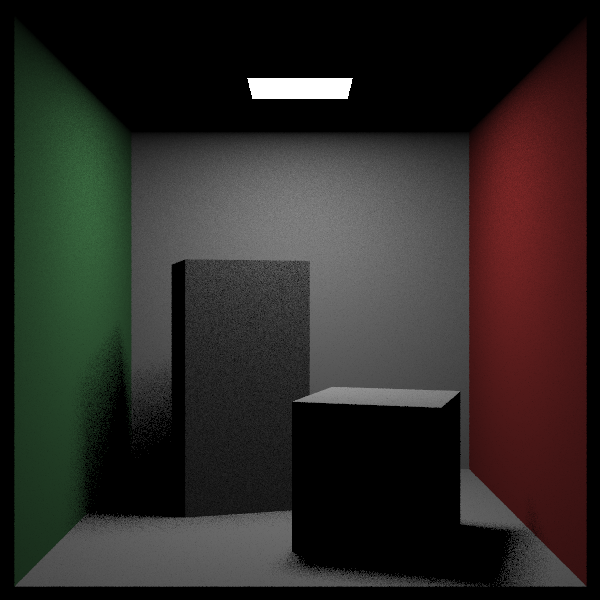
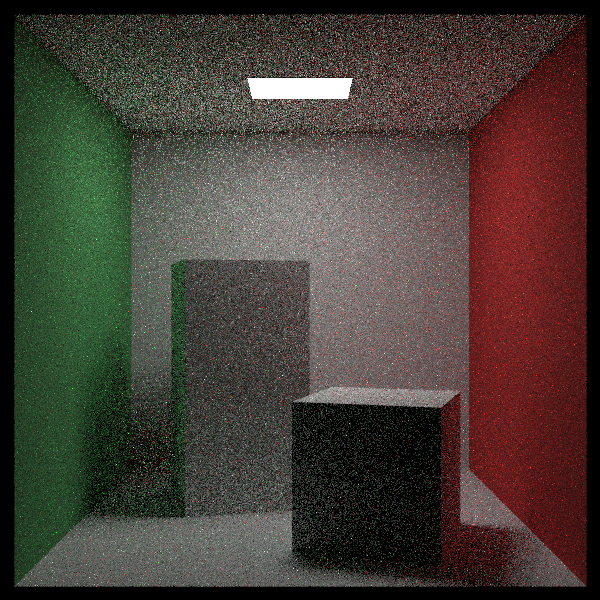
pdfs

diff --git a/src/camera.rs b/src/camera.rs
@@ -11,7 +11,8 @@ use crate::{
     hittables::Hittable,
     image_writer::ImageWriter,
     misc::rand_f64,
-    primitives::{Color, Point3, Ray, Vec3, color, interval, point3, ray, vec3},
+    pdfs::{CosinePdf, HittablePdf, MixturePdf, Pdf},
+    primitives::{Color, Onb, Point3, Ray, Vec3, color, interval, point3, ray, vec3},
 };
 
 fn opt_assert(cond: bool) -> Option<()> {
@@ -140,11 +141,11 @@ impl Camera {
     }
 
     // Renders a scanline into Vec of colors
-    pub fn scanline(&self, world: &dyn Hittable, y: usize) -> Vec<Color> {
+    pub fn scanline(&self, world: &dyn Hittable, lights: &dyn Hittable, y: usize) -> Vec<Color> {
         (0..self.image_width)
             .map(|x| {
                 (0..self.samples_per_pixel)
-                    .map(|_| self.ray_color(&self.get_ray(x, y), self.max_depth, world))
+                    .map(|_| self.ray_color(&self.get_ray(x, y), self.max_depth, world, lights))
                     .sum::<Color>()
                     / f64::from(self.samples_per_pixel)
             })
@@ -152,7 +153,7 @@ impl Camera {
     }
 
     // Renders a hittable into a 2d array of colors
-    pub fn render(&self, world: &dyn Hittable) -> Vec<Vec<Color>> {
+    pub fn render(&self, world: &dyn Hittable, lights: &dyn Hittable) -> Vec<Vec<Color>> {
         // AtomicUsize is faster than Mutex
         let count = Arc::new(AtomicUsize::new(0));
 
@@ -167,7 +168,7 @@ impl Camera {
                     self.image_height,
                     prev as f64 / self.image_height as f64 * 100.0
                 );
-                self.scanline(world, y)
+                self.scanline(world, lights, y)
             })
             .collect_into_vec(&mut result);
 
@@ -178,10 +179,11 @@ impl Camera {
     pub fn render_and_save<T, Writer: ImageWriter<T>>(
         &self,
         world: &dyn Hittable,
+        lights: &dyn Hittable,
         data: T,
     ) -> Result<(), Box<dyn Error>> {
         let mut writer = Writer::new(data, self.image_width, self.image_height)?;
-        let pixels = self.render(world);
+        let pixels = self.render(world, lights);
         println!("Done rendering");
 
         writer.write(pixels)?;
@@ -191,7 +193,7 @@ impl Camera {
 
     // Gets the final color of a ray through a given world. Recursively calls
     // itself for scattered rays
-    fn ray_color(&self, r: &Ray, depth: u32, world: &dyn Hittable) -> Color {
+    fn ray_color(&self, r: &Ray, depth: u32, world: &dyn Hittable, lights: &dyn Hittable) -> Color {
         // if we hit the bounce limit, no more light is gathered
         if depth == 0 {
             return color(0.0, 0.0, 0.0);
@@ -201,29 +203,18 @@ impl Camera {
             let emitted = rec.mat.emitted(r, &rec, rec.u, rec.v, rec.p);
 
             if let Some((attenuation, scattered, pdf_value)) = rec.mat.scatter(r, &rec) {
-                let on_light = point3(rand::random_range(213.0..=343.0), 554.0, rand::random_range(227.0..=332.0));
-                let to_light = on_light - rec.p;
-                let distance_squared = to_light.length_squared();
-                let to_light = to_light.unit_vector();
+                let p0 = HittablePdf::new(lights, rec.p);
+                let p1 = CosinePdf::new(Onb::new(rec.normal));
+                let mixed_pdf = MixturePdf::new(&p0, &p1);
 
-                if to_light.dot(rec.normal) < 0.0 {
-                    return emitted;
-                }
-
-                let light_area = (343.0-213.0)*(332.0-227.0);
-                let light_cosine = to_light.y.abs();
-                if light_cosine < 0.000_001 {
-                    return emitted;
-                }
-
-                let pdf_value = distance_squared / (light_cosine * light_area);
-                let scattered = ray(rec.p, to_light, r.time);
+                let scattered = ray(rec.p, mixed_pdf.generate(), r.time);
+                let pdf_value = mixed_pdf.value(scattered.dir);
 
                 let scattering_pdf = rec.mat.scattering_pdf(r, &rec, &scattered);
 
-                let color_from_scatter =
-                    (attenuation * scattering_pdf * self.ray_color(&scattered, depth - 1, world))
-                        / pdf_value;
+                let color_sample = self.ray_color(&scattered, depth - 1, world, lights);
+
+                let color_from_scatter = (attenuation * scattering_pdf * color_sample) / pdf_value;
                 emitted + color_from_scatter
             } else {
                 emitted

diff --git a/src/example_worlds.rs b/src/example_worlds.rs
@@ -3,8 +3,7 @@ use std::sync::Arc;
 use crate::{
     camera::{Camera, CameraOptions},
     hittables::{
-        BvhNode, HittableList, constant_medium_from_color, cube, moving, quad, rotate_y, sphere,
-        translate, triangle,
+        BvhNode, HittableList, Quad, constant_medium_from_color, cube, moving, quad, rotate_y, sphere, translate, triangle
     },
     materials::{
         Material, dielectric, diffuse_light_from_color, lambertian, lambertian_from_color, metal,
@@ -274,7 +273,7 @@ pub fn simple_light() -> (HittableList, Camera) {
 }
 
 #[must_use]
-pub fn cornell_box() -> (HittableList, Camera) {
+pub fn cornell_box() -> (HittableList, Quad, Camera) {
     let mut world = HittableList::default();
 
     let red = lambertian_from_color(color(0.65, 0.05, 0.05));
@@ -318,8 +317,15 @@ pub fn cornell_box() -> (HittableList, Camera) {
         point3(213.0, 554.0, 226.0),
         vec3(130.0, 0.0, 0.0),
         vec3(0.0, 0.0, 105.0),
-        light,
+        light.clone(),
     ));
+
+    let lights = Quad::new(
+        point3(213.0, 554.0, 226.0),
+        vec3(130.0, 0.0, 0.0),
+        vec3(0.0, 0.0, 105.0),
+        light,
+    );
 
     let box1 = cube(
         point3(0.0, 0.0, 0.0),
@@ -351,7 +357,7 @@ pub fn cornell_box() -> (HittableList, Camera) {
     })
     .unwrap();
 
-    (world, cam)
+    (world, lights, cam)
 }
 
 #[must_use]

diff --git a/src/hittables/quad.rs b/src/hittables/quad.rs
@@ -1,11 +1,13 @@
 use std::{
+    f64::INFINITY,
     fmt::{self, Display},
     sync::Arc,
 };
 
 use crate::{
     materials::Material,
-    primitives::{Aabb, Interval, Point3, Ray, Vec3, point3, vec3},
+    misc::rand_f64,
+    primitives::{Aabb, Interval, Point3, Ray, Vec3, interval, point3, ray, vec3},
 };
 
 use super::{HitRecord, Hittable, HittableList};
@@ -19,6 +21,7 @@ pub struct Quad {
     bbox: Aabb,
     normal: Vec3,
     d: f64,
+    area: f64,
 }
 
 impl Quad {
@@ -40,6 +43,7 @@ impl Quad {
             bbox: Aabb::from_boxes(&bbox_diag_1, &bbox_diag_2),
             normal,
             d,
+            area: n.length(),
         }
     }
 
@@ -93,6 +97,22 @@ impl Hittable for Quad {
 
     fn bounding_box(&self) -> &Aabb {
         &self.bbox
+    }
+
+    fn pdf_value(&self, origin: Point3, dir: Vec3) -> f64 {
+        if let Some(rec) = self.hit(&ray(origin, dir, 0.0), &interval(0.001, f64::INFINITY)) {
+            let distance_squared = rec.t * rec.t * dir.length_squared();
+            let cosine = (dir.dot(rec.normal) / dir.length()).abs();
+
+            distance_squared / (cosine * self.area)
+        } else {
+            0.0
+        }
+    }
+
+    fn random(&self, origin: Point3) -> Vec3 {
+        let p = self.q + (rand_f64() * self.u) + (rand_f64() * self.v);
+        p - origin
     }
 }
 

diff --git a/src/hittables/hittable.rs b/src/hittables/hittable.rs
@@ -2,7 +2,7 @@ use std::{fmt, sync::Arc};
 
 use crate::{
     materials::Material,
-    primitives::{Aabb, Interval, Point3, Ray, Vec3},
+    primitives::{Aabb, Interval, Point3, Ray, Vec3, vec3},
     tern,
 };
 
@@ -47,4 +47,14 @@ pub trait Hittable: Sync + Send + fmt::Display {
     fn hit(&self, r: &Ray, ray_t: &Interval) -> Option<HitRecord>;
 
     fn bounding_box(&self) -> &Aabb;
+
+    fn pdf_value(&self, origin: Point3, dir: Vec3) -> f64 {
+        _ = (origin, dir);
+        0.0
+    }
+
+    fn random(&self, origin: Point3) -> Vec3 {
+        _ = origin;
+        vec3(1.0, 0.0, 0.0)
+    }
 }

diff --git a/src/main.rs b/src/main.rs
@@ -6,9 +6,9 @@ use raytrace::image_writer::PNGImageWriter;
 
 use raytrace::example_worlds::*;
 
-fn run<H: Hittable>((world, cam): (H, Camera), name: &str) {
+fn run<H: Hittable, L: Hittable>((world, lights, cam): (H, L, Camera), name: &str) {
     let start = Instant::now();
-    cam.render_and_save::<_, PNGImageWriter>(&world, format!("./output/{name}.png"))
+    cam.render_and_save::<_, PNGImageWriter>(&world, &lights, format!("./output/{name}.png"))
         .expect("failed to save image");
     let end = start.elapsed();
     println!("Took {:.3}", end.as_secs_f64());

diff --git a/src/pdfs/cosine_pdf.rs b/src/pdfs/cosine_pdf.rs
@@ -1,0 +1,29 @@
+use std::f64::consts::PI;
+
+use crate::{
+    misc::random_cosine_direction,
+    pdfs::Pdf,
+    primitives::{Onb, Vec3},
+};
+
+pub struct CosinePdf {
+    uvw: Onb,
+}
+
+impl CosinePdf {
+    #[must_use]
+    pub fn new(uvw: Onb) -> Self {
+        Self { uvw }
+    }
+}
+
+impl Pdf for CosinePdf {
+    fn value(&self, dir: Vec3) -> f64 {
+        let cos_theta = dir.unit_vector().dot(self.uvw.w());
+        (cos_theta / PI).max(0.0)
+    }
+
+    fn generate(&self) -> Vec3 {
+        self.uvw.transform(random_cosine_direction())
+    }
+}

diff --git a/src/pdfs/hittable_pdf.rs b/src/pdfs/hittable_pdf.rs
@@ -1,0 +1,26 @@
+use crate::{
+    hittables::Hittable,
+    pdfs::Pdf,
+    primitives::{Point3, Vec3},
+};
+
+pub struct HittablePdf<'a> {
+    objects: &'a dyn Hittable,
+    origin: Point3,
+}
+
+impl<'a> HittablePdf<'a> {
+    pub fn new(objects: &'a dyn Hittable, origin: Point3) -> Self {
+        Self { objects, origin }
+    }
+}
+
+impl Pdf for HittablePdf<'_> {
+    fn value(&self, dir: Vec3) -> f64 {
+        self.objects.pdf_value(self.origin, dir)
+    }
+
+    fn generate(&self) -> Vec3 {
+        self.objects.random(self.origin)
+    }
+}

diff --git a/src/pdfs/mixture_pdf.rs b/src/pdfs/mixture_pdf.rs
@@ -1,0 +1,19 @@
+use crate::{misc::rand_f64, pdfs::Pdf, primitives::Vec3, tern};
+
+pub struct MixturePdf<'a>(&'a dyn Pdf, &'a dyn Pdf);
+
+impl<'a> MixturePdf<'a> {
+    pub fn new(p0: &'a dyn Pdf, p1: &'a dyn Pdf) -> Self {
+        Self(p0, p1)
+    }
+}
+
+impl Pdf for MixturePdf<'_> {
+    fn value(&self, dir: Vec3) -> f64 {
+        0.5 * self.0.value(dir) + 0.5 * self.1.value(dir)
+    }
+
+    fn generate(&self) -> Vec3 {
+        tern!(rand_f64() < 0.5, self.0.generate(), self.1.generate())
+    }
+}

diff --git a/src/pdfs/pdf.rs b/src/pdfs/pdf.rs
@@ -1,0 +1,10 @@
+use crate::primitives::Vec3;
+
+pub trait Pdf {
+    /// Returns the pdf value for a given direction, or the probability this
+    /// given direction was produced by this pdf.
+    fn value(&self, dir: Vec3) -> f64;
+
+    /// Generates a random direction.
+    fn generate(&self) -> Vec3;
+}

diff --git a/src/pdfs/sphere_pdf.rs b/src/pdfs/sphere_pdf.rs
@@ -1,0 +1,15 @@
+use std::f64::consts::PI;
+
+use crate::{pdfs::Pdf, primitives::Vec3};
+
+pub struct SpherePdf;
+
+impl Pdf for SpherePdf {
+    fn value(&self, _dir: Vec3) -> f64 {
+        1.0 / (4.0 * PI)
+    }
+
+    fn generate(&self) -> Vec3 {
+        Vec3::random_unit_vector()
+    }
+}

diff --git a/src/pdfs/mod.rs b/src/pdfs/mod.rs
@@ -1,0 +1,11 @@
+mod cosine_pdf;
+mod hittable_pdf;
+mod pdf;
+mod sphere_pdf;
+mod mixture_pdf;
+
+pub use cosine_pdf::*;
+pub use hittable_pdf::*;
+pub use pdf::*;
+pub use sphere_pdf::*;
+pub use mixture_pdf::*;

diff --git a/src/lib.rs b/src/lib.rs
@@ -19,3 +19,4 @@ pub mod materials;
 pub mod misc;
 pub mod primitives;
 pub mod textures;
+pub mod pdfs;
